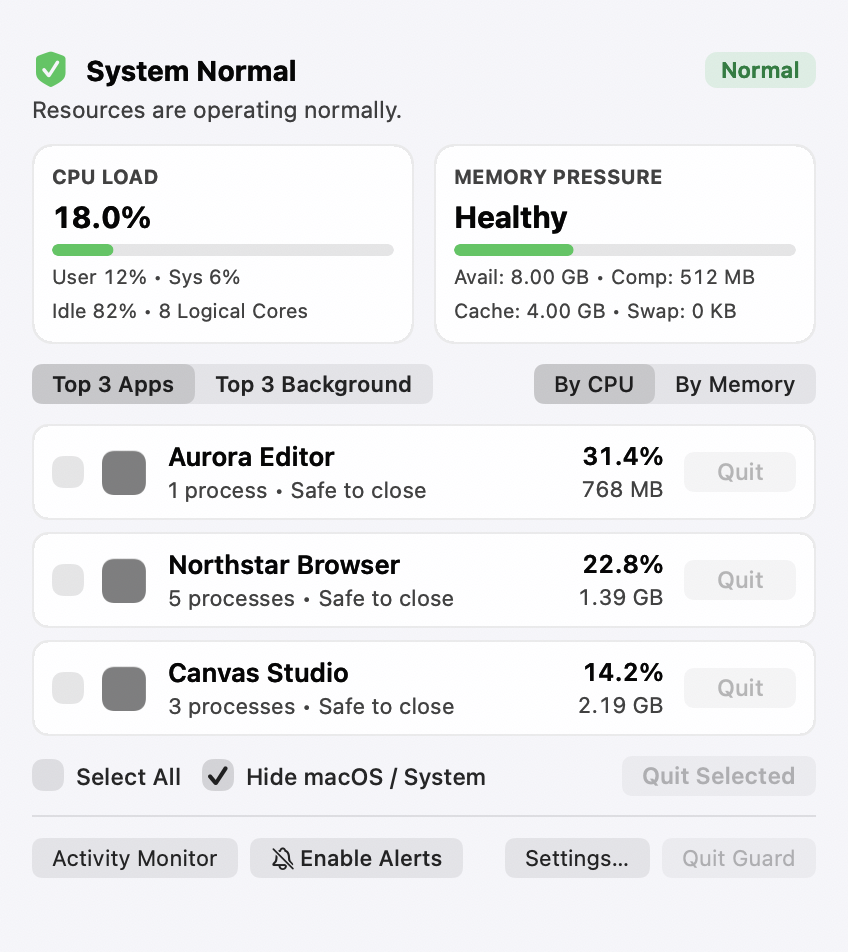
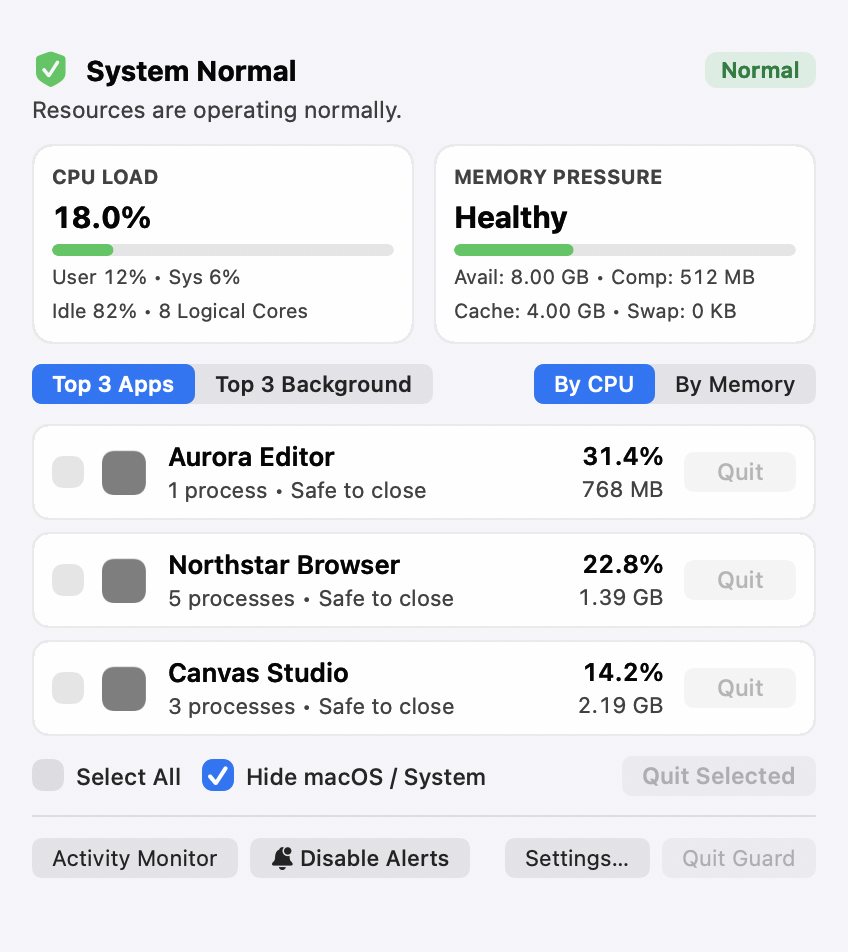
fix(qa): make visual states deterministic

diff --git a/Tests/MacResourceGuardTests/VisualQAPolicyIntegrationTests.swift b/Tests/MacResourceGuardTests/VisualQAPolicyIntegrationTests.swift
@@ -54,21 +54,49 @@ final class VisualQAPolicyIntegrationTests: XCTestCase {
         XCTAssertEqual(alert.buttons.map(\.title), ["Force Quit", "Cancel"])
     }
 
-    func testStatusItemExposesTheRealButtonForVisualQAExport() {
+    func testStatusItemExposesTheRealButtonSafelyForVisualQAExport() throws {
         let controller = StatusBarController(
             coordinator: AdaptiveMonitorCoordinator(),
             safetyPolicy: .visualQAMode
         )
         controller.applyVisualQAScenario(.highCPU)
 
-        let button = controller.statusButtonForVisualQA
+        let button = try XCTUnwrap(controller.statusButtonForVisualQAIfAvailable)
         XCTAssertNotNil(button.image)
         XCTAssertEqual(button.image?.accessibilityDescription, "Elevated Resource Usage")
+    }
+
+    func testNotificationScenarioControlsFooterStateWithoutUsingUserSettings() throws {
+        let suiteName = "VisualQAPolicyIntegrationTests.\(UUID().uuidString)"
+        let defaults = try XCTUnwrap(UserDefaults(suiteName: suiteName))
+        defer { defaults.removePersistentDomain(forName: suiteName) }
+        let settings = AppSettingsStore(defaults: defaults)
+        let controller = PopoverViewController(
+            coordinator: AdaptiveMonitorCoordinator(settings: settings),
+            settings: settings,
+            safetyPolicy: .visualQAMode
+        )
+
+        controller.applyVisualQAScenario(.notificationsEnabled)
+        let enabledButton = try XCTUnwrap(controller.view.alertsButton)
+        XCTAssertEqual(enabledButton.title, "Disable Alerts")
+        XCTAssertEqual(enabledButton.image?.accessibilityDescription, "Alerts Active")
+
+        controller.applyVisualQAScenario(.notificationsPaused)
+        let pausedButton = try XCTUnwrap(controller.view.alertsButton)
+        XCTAssertEqual(pausedButton.title, "Enable Alerts")
+        XCTAssertEqual(pausedButton.image?.accessibilityDescription, "Alerts Disabled")
     }
 }
 
 private extension NSView {
     var allDescendants: [NSView] {
         subviews + subviews.flatMap(\.allDescendants)
+    }
+
+    var alertsButton: NSButton? {
+        allDescendants
+            .compactMap { $0 as? NSButton }
+            .first { $0.title.hasSuffix("Alerts") }
     }
 }

diff --git a/Sources/MacResourceGuardApp/AppDelegate.swift b/Sources/MacResourceGuardApp/AppDelegate.swift
@@ -166,9 +166,10 @@ public final class AppDelegate: NSObject, NSApplicationDelegate {
                 guard let scenario else { continue }
                 let outputPath = String(arg.dropFirst("--export-status-item-png=".count))
                 DispatchQueue.main.asyncAfter(deadline: .now() + 0.3) { [weak self] in
-                    guard let self else { return }
+                    guard let self,
+                          let statusButton = self.statusBarController.statusButtonForVisualQAIfAvailable else { return }
                     self.statusBarController.applyVisualQAScenario(scenario)
-                    Self.saveViewPNG(view: self.statusBarController.statusButtonForVisualQA, to: outputPath)
+                    Self.saveViewPNG(view: statusButton, to: outputPath)
                     if args.contains("--quit-after-export") {
                         NSApp.terminate(nil)
                     }

diff --git a/Sources/MacResourceGuardApp/UI/PopoverViewController.swift b/Sources/MacResourceGuardApp/UI/PopoverViewController.swift
@@ -877,7 +877,12 @@ public final class PopoverViewController: NSViewController {
     }
 
     private func updateAlertsToggleButton() {
-        let alertsActive = settings.notificationsEnabled && !settings.doNotDisturbEnabled && !settings.isCurrentlyPaused()
+        let alertsActive: Bool
+        if let visualQANotificationPresentation {
+            alertsActive = visualQANotificationPresentation == .enabled
+        } else {
+            alertsActive = settings.notificationsEnabled && !settings.doNotDisturbEnabled && !settings.isCurrentlyPaused()
+        }
         if alertsActive {
             alertsToggleButton.title = "Disable Alerts"
             alertsToggleButton.image = NSImage(systemSymbolName: "bell.badge.fill", accessibilityDescription: "Alerts Active")

diff --git a/Sources/MacResourceGuardApp/UI/StatusBarController.swift b/Sources/MacResourceGuardApp/UI/StatusBarController.swift
@@ -181,8 +181,8 @@ public final class StatusBarController: NSObject, NSPopoverDelegate {
         popover.contentViewController?.view.window
     }
 
-    public var statusButtonForVisualQA: NSStatusBarButton {
-        statusItem.button!
+    public var statusButtonForVisualQAIfAvailable: NSStatusBarButton? {
+        statusItem.button
     }
 
     public func setShowBackgroundProcesses(_ showBackground: Bool) {

diff --git a/QA/reports/visual/2026-10-27-resource-guard-visual-audit.md b/QA/reports/visual/2026-10-27-resource-guard-visual-audit.md
@@ -87,6 +87,10 @@ Before remediation, screenshots exposed local process names and could not reach 
 
 The application activates only for explicit visual-QA launches before export, allowing AppKit to draw active segmented controls without changing normal background operation.
 
+### Notification footer consistency
+
+The deterministic notification scenario now controls both the status subtitle and the footer action. The enabled fixture displays `Disable Alerts` with the active-bell symbol, while disabled, paused, and Do Not Disturb fixtures display `Enable Alerts`; none of these states reads or mutates the user's notification preferences.
+
 ## Lightweightness evidence
 
 The styling correction adds only static color resolution and border/fill changes; it adds no timers, blur layers, observers, or animation loops.
@@ -102,8 +106,8 @@ A final Release sanity run after all QA hooks reported a 37 MB footprint and fiv
 
 ## Verification and limitations
 
-- SwiftPM test suite: 26 tests, 0 failures.
-- Xcode macOS test action: 26 tests, 0 failures; `TEST SUCCEEDED`.
+- SwiftPM test suite: 27 tests, 0 failures.
+- Xcode macOS test action: 27 tests, 0 failures; `TEST SUCCEEDED`.
 - Xcode Release build with derived data under `/tmp`: `BUILD SUCCEEDED`.
 - Release exports: 16 committed sanitized PNGs; popovers are 848 × 952 px, alerts 520 × 564 px, and status-button content 138–140 × 44–46 px.
 - A minimal `screencapture -x -R0,0,10,10` probe still returns `could not create image from rect`. Therefore menu-bar context, native window shadow/material, hover, and modal placement are not claimed as passed.
